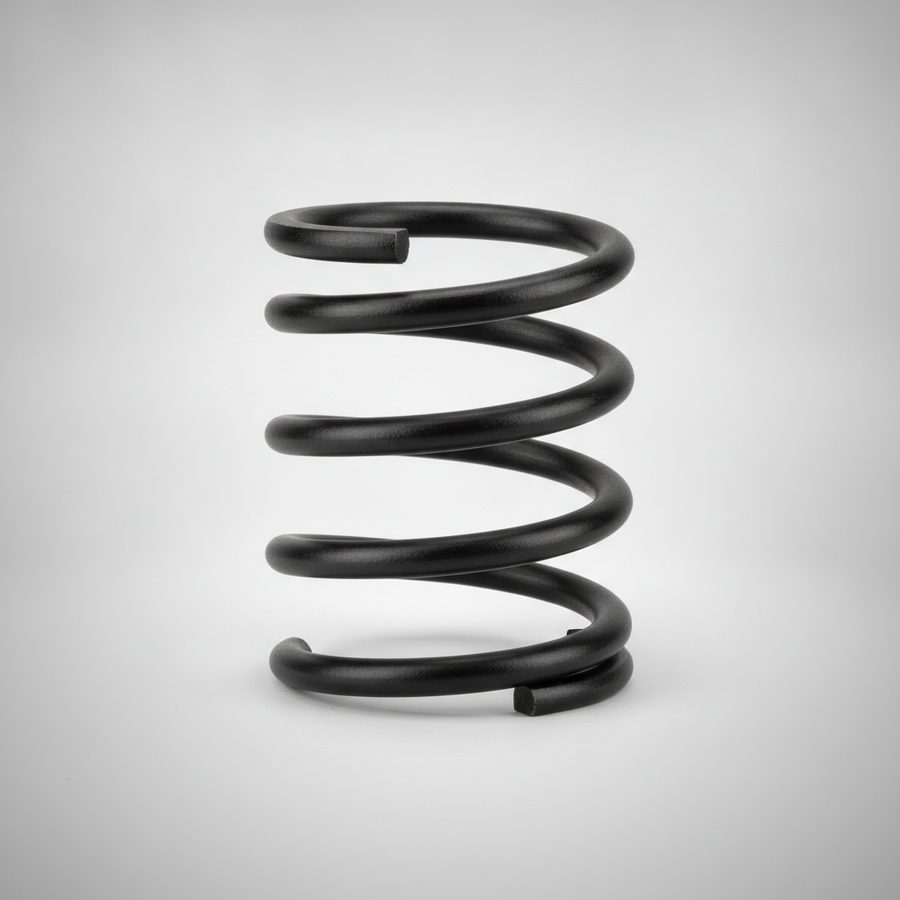
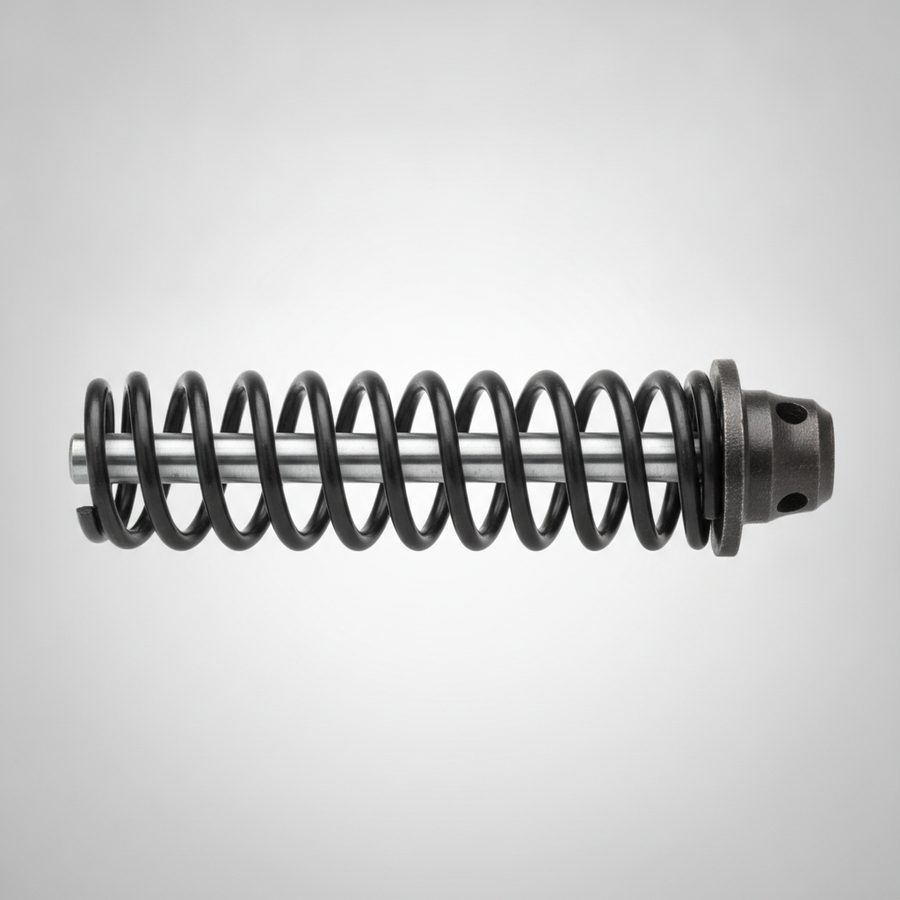
Mobile optimization audit: fix horizontal overflow + realistic spring images
- Fix horizontal-scroll overflow on mobile (root cause of shifted/clipped
  sections in the user's screenshot):
  * Hide header 'Free Quote' button below 560px so brand + hamburger always fit
  * Wrap long email/links (overflow-wrap) so they don't force width
  * Add min-width:0 to grid/flex children (contact, about, strata, areas, hero)
    and form controls; use minmax(min(100%,X),1fr) for all auto-fit grids
  * Verified 0 overflow from 320px through 1280px
- Regenerate spring images as realistic garage-door TORSION springs (long
  coil on a steel shaft with winding cones) instead of automotive-style coils
- Brand-consistency copy tweak in top bar (North Shore)

Claude-Session: https://claude.ai/code/session_011kxwfn8GRbg7JGQcMvNsQM

Changed region(s): [[0.0622, 0.2178, 0.9333, 0.8089], [0.9956, 0.9644, 1.0, 1.0]]

diff --git a/assets/css/style.css b/assets/css/style.css
@@ -40,6 +40,7 @@ body{
   line-height:1.65;
   font-size:16px;
   overflow-x:hidden;
+  overflow-wrap:break-word;
 }
 img{max-width:100%;display:block}
 a{color:inherit;text-decoration:none}
@@ -129,6 +130,14 @@ section{position:relative}
   .nav,.header-phone{display:none}
   .nav-toggle{display:flex}
 }
+/* Narrow phones: drop the header "Free Quote" button so the brand + hamburger
+   always fit (the sticky bottom bar already carries the CTA). Prevents the
+   header from forcing horizontal page overflow. */
+@media(max-width:560px){
+  .header-cta .btn-primary{display:none}
+  .header .container{gap:10px}
+  .brand-text b{font-size:.98rem}
+}
 
 /* mobile nav drawer */
 .mobile-nav{
@@ -180,7 +189,7 @@ section{position:relative}
 
 /* ---------- Services ---------- */
 .grid{display:grid;gap:24px}
-.services-grid{grid-template-columns:repeat(auto-fit,minmax(270px,1fr))}
+.services-grid{grid-template-columns:repeat(auto-fit,minmax(min(100%,270px),1fr))}
 .service-card{
   background:#fff;border:1px solid var(--line);border-radius:var(--radius);overflow:hidden;
   display:flex;flex-direction:column;transition:transform .2s,box-shadow .2s,border-color .2s;
@@ -200,7 +209,7 @@ section{position:relative}
 .service-card:hover .sc-link svg{transform:translateX(4px)}
 
 /* ---------- Steps / buyer journey ---------- */
-.steps{grid-template-columns:repeat(auto-fit,minmax(220px,1fr));counter-reset:step}
+.steps{grid-template-columns:repeat(auto-fit,minmax(min(100%,220px),1fr));counter-reset:step}
 .step{position:relative;background:#fff;border:1px solid var(--line);border-radius:var(--radius);padding:30px 24px;text-align:center}
 .step .step-num{width:54px;height:54px;margin:0 auto 16px;border-radius:50%;background:var(--navy);color:#fff;
   font-family:var(--font-head);font-weight:800;font-size:1.3rem;display:flex;align-items:center;justify-content:center;position:relative}
@@ -211,7 +220,7 @@ section{position:relative}
 .step .step-ico svg{width:26px;height:26px}
 
 /* ---------- Door styles ---------- */
-.doors-grid{grid-template-columns:repeat(auto-fit,minmax(240px,1fr))}
+.doors-grid{grid-template-columns:repeat(auto-fit,minmax(min(100%,240px),1fr))}
 .door-card{position:relative;border-radius:var(--radius);overflow:hidden;aspect-ratio:1/1;box-shadow:var(--shadow-sm)}
 .door-card img{width:100%;height:100%;object-fit:cover;transition:transform .5s}
 .door-card:hover img{transform:scale(1.06)}
@@ -221,7 +230,7 @@ section{position:relative}
 .door-card .door-label span{font-size:.85rem;color:#cdd9ea}
 
 /* ---------- Openers ---------- */
-.opener-grid{grid-template-columns:repeat(auto-fit,minmax(260px,1fr))}
+.opener-grid{grid-template-columns:repeat(auto-fit,minmax(min(100%,260px),1fr))}
 .opener-card{background:#fff;border:1px solid var(--line);border-radius:var(--radius);overflow:hidden;display:flex;flex-direction:column;transition:transform .2s,box-shadow .2s}
 .opener-card:hover{transform:translateY(-5px);box-shadow:var(--shadow)}
 .opener-card.featured{border:2px solid var(--gold);box-shadow:var(--shadow)}
@@ -240,7 +249,7 @@ section{position:relative}
 .opener-toggle-wrap{text-align:center;margin-top:30px}
 
 /* ---------- Springs ---------- */
-.spring-grid{grid-template-columns:repeat(auto-fit,minmax(280px,1fr));align-items:stretch}
+.spring-grid{grid-template-columns:repeat(auto-fit,minmax(min(100%,280px),1fr));align-items:stretch}
 .spring-card{background:#fff;border:1px solid var(--line);border-radius:var(--radius);overflow:hidden;display:flex;flex-direction:column;position:relative;transition:transform .2s,box-shadow .2s}
 .spring-card:hover{transform:translateY(-5px);box-shadow:var(--shadow)}
 .spring-card.popular{border:2px solid var(--gold)}
@@ -263,7 +272,7 @@ section{position:relative}
 .strata .eyebrow{color:var(--gold)}
 .strata p{color:#c4d2e6;margin-bottom:18px}
 .strata-feats{display:grid;grid-template-columns:1fr 1fr;gap:14px 22px;margin:22px 0 28px}
-.strata-feats li{display:flex;gap:11px;font-size:.95rem;color:#e3ebf6}
+.strata-feats li{display:flex;gap:11px;font-size:.95rem;color:#e3ebf6;min-width:0}
 .strata-feats svg{width:22px;height:22px;color:var(--gold);flex-shrink:0;margin-top:2px}
 .strata-img{border-radius:var(--radius);overflow:hidden;box-shadow:var(--shadow-lg)}
 .strata-img img{width:100%;height:100%;object-fit:cover}
@@ -283,7 +292,7 @@ section{position:relative}
 .feature p{color:var(--slate);font-size:.93rem}
 
 /* stats */
-.stats{display:grid;grid-template-columns:repeat(auto-fit,minmax(130px,1fr));gap:20px;margin-top:36px}
+.stats{display:grid;grid-template-columns:repeat(auto-fit,minmax(min(100%,130px),1fr));gap:20px;margin-top:36px}
 .stat{text-align:center;padding:22px 10px;background:#fff;border:1px solid var(--line);border-radius:var(--radius)}
 .stat b{display:block;font-family:var(--font-head);font-weight:800;font-size:2rem;color:var(--navy);line-height:1}
 .stat span{color:var(--slate);font-size:.86rem;margin-top:6px;display:block}
@@ -295,7 +304,7 @@ section{position:relative}
 .areas-list li svg{width:15px;height:15px;color:var(--gold-2)}
 
 /* ---------- Gallery ---------- */
-.gallery{display:grid;grid-template-columns:repeat(auto-fit,minmax(240px,1fr));gap:16px}
+.gallery{display:grid;grid-template-columns:repeat(auto-fit,minmax(min(100%,240px),1fr));gap:16px}
 .gallery figure{position:relative;border-radius:var(--radius);overflow:hidden;aspect-ratio:4/3}
 .gallery img{width:100%;height:100%;object-fit:cover;transition:transform .5s}
 .gallery figure:hover img{transform:scale(1.07)}
@@ -303,7 +312,7 @@ section{position:relative}
   background:linear-gradient(to top,rgba(8,24,45,.85),transparent)}
 
 /* ---------- Reviews ---------- */
-.reviews-grid{grid-template-columns:repeat(auto-fit,minmax(300px,1fr))}
+.reviews-grid{grid-template-columns:repeat(auto-fit,minmax(min(100%,300px),1fr))}
 .review{background:#fff;border:1px solid var(--line);border-radius:var(--radius);padding:28px 24px;display:flex;flex-direction:column;box-shadow:var(--shadow-sm)}
 .review .stars{color:var(--star);letter-spacing:2px;margin-bottom:12px}
 .review p{color:var(--ink);font-size:.97rem;margin-bottom:18px;flex:1}
@@ -334,9 +343,14 @@ section{position:relative}
 
 /* ---------- Contact ---------- */
 .contact-grid{display:grid;gap:40px}
+/* Let grid items shrink below their content's intrinsic size (prevents
+   long text / form controls from forcing horizontal overflow on narrow phones) */
+.contact-grid>*,.about-grid>*,.strata-grid>*,.areas-wrap>*,.hero-grid>*{min-width:0}
 .contact-info h3{font-size:1.5rem;margin-bottom:8px}
 .contact-list{display:grid;gap:18px;margin:24px 0}
-.contact-list li{display:flex;gap:15px;align-items:flex-start}
+.contact-list li{display:flex;gap:15px;align-items:flex-start;min-width:0}
+.contact-list li>div{min-width:0}
+.contact-list a,.footer-contact a{overflow-wrap:anywhere}
 .contact-list .ci-ico{width:48px;height:48px;border-radius:13px;background:var(--navy);color:#fff;display:flex;align-items:center;justify-content:center;flex-shrink:0}
 .contact-list .ci-ico svg{width:22px;height:22px}
 .contact-list small{display:block;color:var(--muted);font-size:.8rem;text-transform:uppercase;letter-spacing:.06em}
@@ -354,8 +368,9 @@ section{position:relative}
 .form-card>p{color:var(--slate);font-size:.94rem;margin-bottom:20px}
 .form-row{display:grid;gap:16px;margin-bottom:16px}
 .form-row.two{grid-template-columns:1fr 1fr}
+.field{min-width:0}
 .field label{display:block;font-size:.85rem;font-weight:600;color:var(--navy-2);margin-bottom:6px;font-family:var(--font-head)}
-.field input,.field select,.field textarea{
+.field input,.field select,.field textarea{min-width:0;max-width:100%;
   width:100%;padding:13px 15px;border:1.5px solid var(--line);border-radius:11px;font-family:var(--font-body);
   font-size:.97rem;color:var(--ink);background:#fff;transition:border-color .15s,box-shadow .15s;
 }

diff --git a/index.html b/index.html
@@ -154,7 +154,7 @@
 <div class="topbar">
   <div class="container">
     <div class="topbar-areas">
-      <span>★ Family-owned &amp; locally operated in West Vancouver</span>
+      <span>★ Family-owned &amp; locally operated across the North Shore</span>
     </div>
     <div>
       <span class="dot">●</span> Same-day service &amp; emergency repairs — <a href="tel:[phone redacted]">[phone redacted]</a>

diff --git a/scripts/gen_images.py b/scripts/gen_images.py
@@ -121,16 +121,22 @@ PROMPTS = {
     ),
     # ---- Springs (product close-ups) ----
     "spring-standard": (
-        "Clean product photo of a single black galvanized garage door torsion spring coil on a soft light-grey "
-        "studio gradient background. No text. 1:1 square." + STYLE
+        "Clean product photo of a single real garage-door TORSION spring: a long horizontal cylindrical tube of "
+        "tightly wound black steel wire with the coils packed closely together touching each other, threaded onto "
+        "a metal torsion shaft with a black cast-iron winding cone fitting at the end. Horizontal orientation, "
+        "soft light-grey studio gradient background. Photorealistic hardware. No text. 1:1 square." + STYLE
     ),
     "spring-highcycle": (
-        "Clean product photo of a heavy-duty oil-tempered garage door torsion spring with a subtle bronze/gold "
-        "tone on a soft light-grey studio gradient background. No text. 1:1 square." + STYLE
+        "Clean product photo of a single heavy-duty oil-tempered garage-door TORSION spring: a long horizontal "
+        "cylindrical coil of tightly wound galvanized zinc-grey steel wire, coils tightly packed together, on a "
+        "steel torsion shaft with a winding cone at the end. Horizontal orientation, soft light-grey studio "
+        "gradient background. Photorealistic. No text. 1:1 square." + STYLE
     ),
     "spring-premium": (
-        "Clean product photo of two premium powder-coated black high-cycle garage door torsion springs side by "
-        "side on a soft light-grey studio gradient background. No text. 1:1 square." + STYLE
+        "Clean product photo of two premium heavy-duty garage-door TORSION springs mounted side by side on a "
+        "single long steel torsion shaft above where a garage door would be: each is a long cylindrical coil of "
+        "tightly wound black powder-coated steel wire with red cast winding cones in the centre. Horizontal "
+        "orientation, soft light-grey studio gradient background. Photorealistic. No text. 1:1 square." + STYLE
     ),
     # ---- CTA / texture ----
     "cta-bg": (